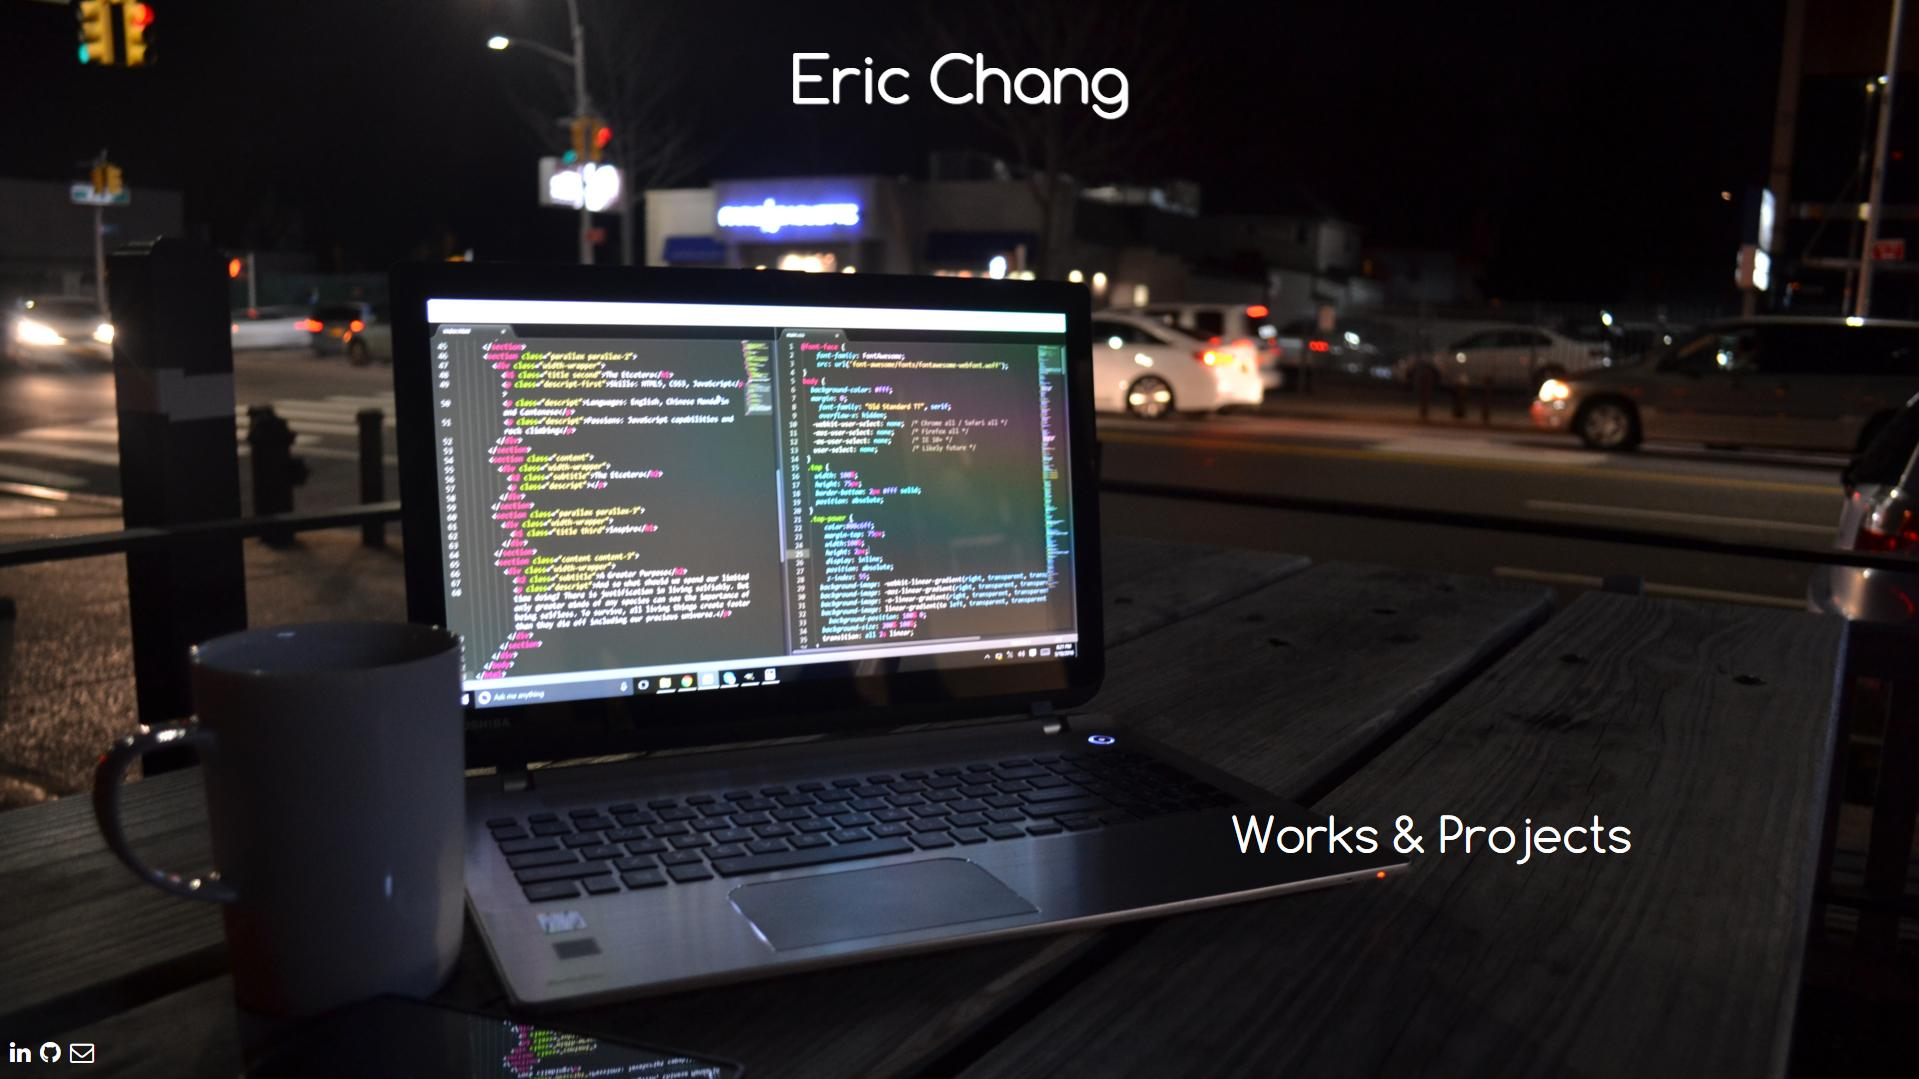
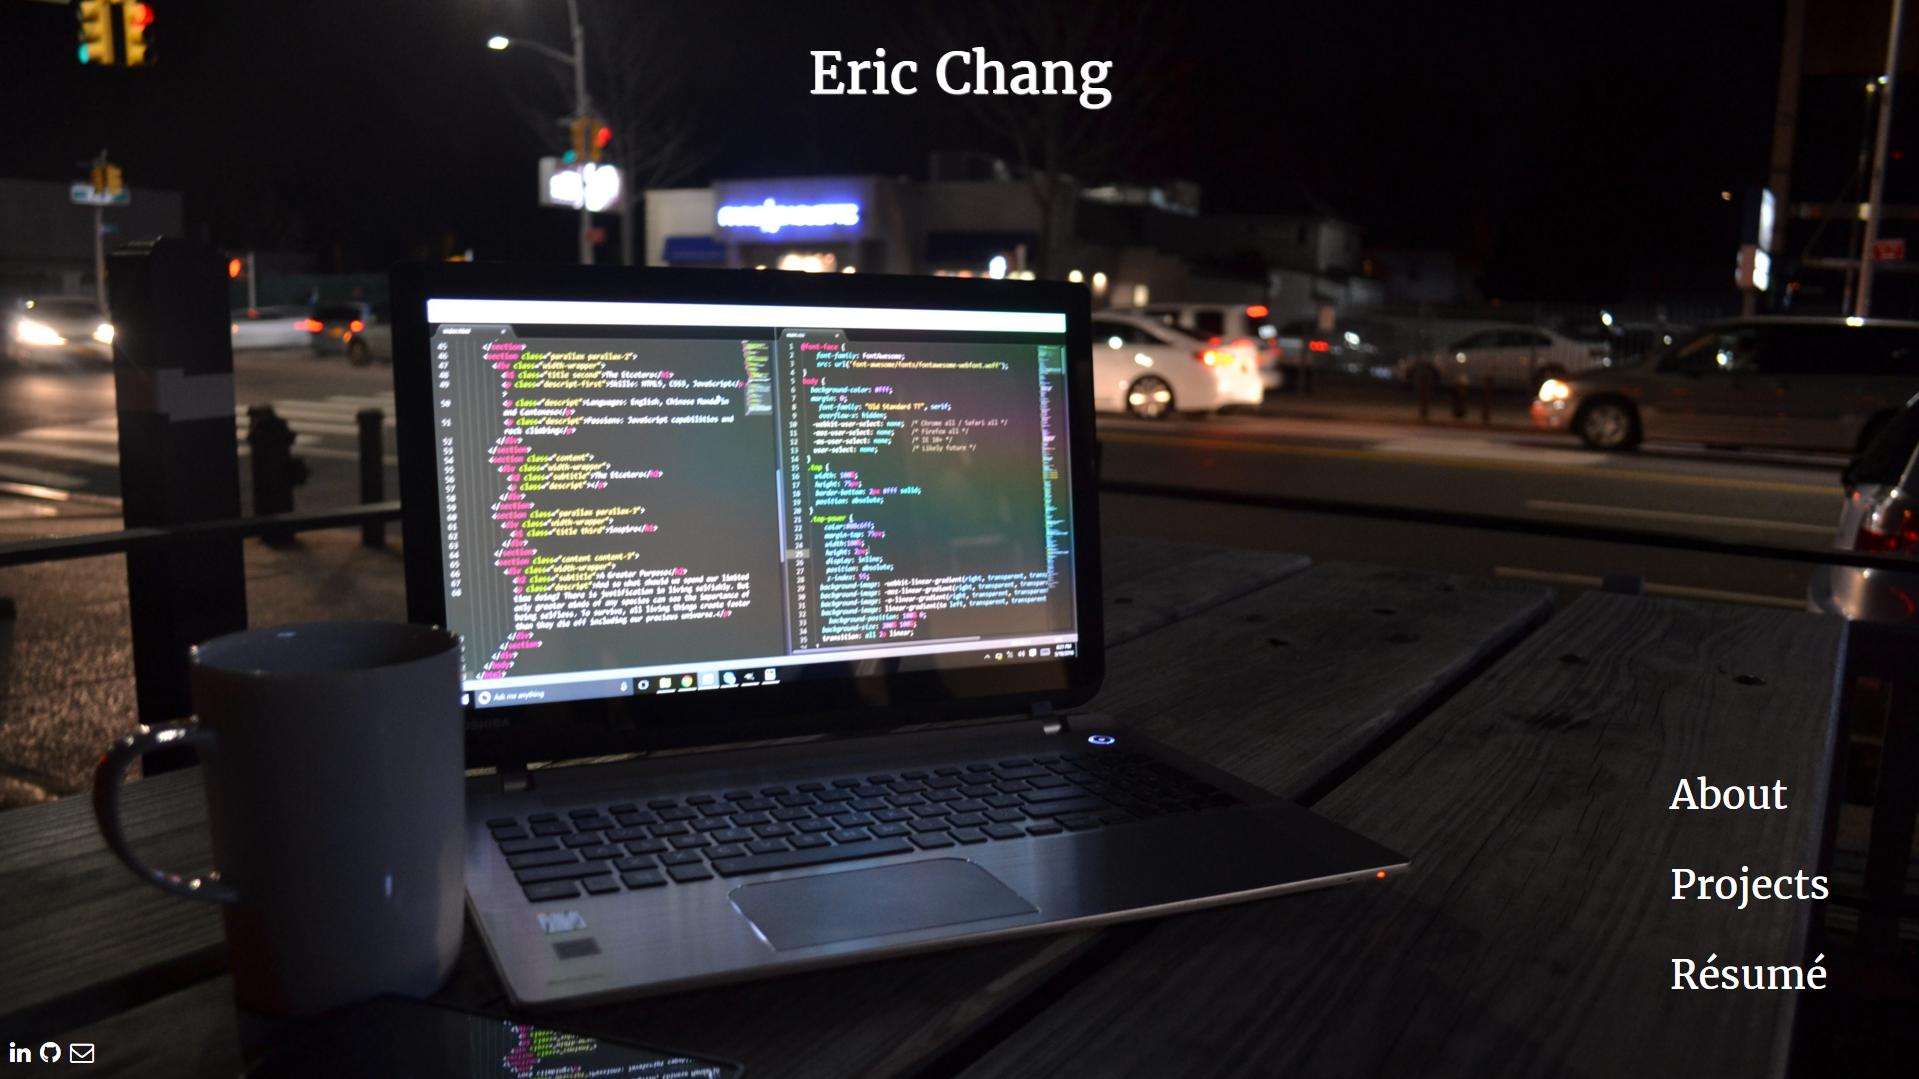
responsive
responsive + css reset

diff --git a/main.css b/main.css
@@ -1,6 +1,32 @@
+@import url(https://fonts.googleapis.com/css?family=Merriweather);
+html, body, div, span, applet, object, iframe,
+h1, h2, h3, h4, h5, h6, p, blockquote, pre,
+a, abbr, acronym, address, big, cite, code,
+del, dfn, em, img, ins, kbd, q, s, samp,
+small, strike, strong, sub, sup, tt, var,
+b, u, i, center,
+dl, dt, dd, ol, ul, li,
+fieldset, form, label, legend,
+table, caption, tbody, tfoot, thead, tr, th, td,
+article, aside, canvas, details, embed, 
+figure, figcaption, footer, header, hgroup, 
+menu, nav, output, ruby, section, summary,
+time, mark, audio, video {
+	margin: 0;
+	padding: 0;
+	border: 0;
+	font-size: 100%;
+	font: inherit;
+	vertical-align: baseline;
+}
 @font-face {
 	font-family: FontAwesome;
 	src: url('font-awesome/fonts/fontawesome-webfont.woff');
+}
+html,
+body {
+	width: 100%;
+	height: 100%;
 }
 body{
 	font-family: 'Merriweather', serif;
@@ -11,9 +37,9 @@ body{
 	background-attachment: fixed;
 	overflow: hidden;
 	-webkit-user-select: none;  /* Chrome all / Safari all */
-  -moz-user-select: none;     /* Firefox all */
-  -ms-user-select: none;      /* IE 10+ */
-  user-select: none;   
+  	-moz-user-select: none;     /* Firefox all */
+ 	-ms-user-select: none;      /* IE 10+ */
+  	user-select: none;   
 }
 a:link, a:visited {
 	text-decoration: none;
@@ -21,10 +47,12 @@ a:link, a:visited {
 }
 ::-webkit-scrollbar {
 	width: 0px;
+	height: 0px;
 	background: transparent;
 }  
 /* header */
 /* header */
+
 .logo {
 	margin-top: 2%;
 	text-align: center;
@@ -38,14 +66,17 @@ a:link, a:visited {
 .main {
 	color: #fff;
 	font-size: 2.5em;
-	width: 300px;
-	height: 300px;
-	position: fixed;
-	right: 10%;
-	bottom: 10%;
+}
+.menu {
+	position: absolute;
+	bottom: 100px;
+	right: 100px;
+	list-style: none;
 }
 .about-btn, .works-btn, .resume-btn {
-	margin-top: 0;
+	margin-right: 100px;
+	margin-top: 50px;
+	display: block;
 }
 .about-btn:hover, .works-btn:hover, .resume-btn:hover {
 	text-shadow: 0 0 10px #00c6ff;
@@ -69,10 +100,9 @@ a:link, a:visited {
 }
 .close {
 	color: #fff;
-	position: absolute;
+	position: fixed;
+	top: 50px;
 	right: 50px;
-	margin-top: 5%;
-	margin-right: 5%;
 	font-size: 2.5em;
 	font-weight: bold;
 	text-shadow: 0 0 5px #00c6ff;
@@ -152,7 +182,7 @@ a:link, a:visited {
 	background: url("images/Eric6.jpg") 0 0 no-repeat;
 	background-size: cover;
 }
-.front .front-title {
+.front-title {
 	font-size: 2em;
 	display: inline-block;
 	background: rgba(33, 33, 33, 0.9);
@@ -195,8 +225,7 @@ a:link, a:visited {
 /* Works Content */
 /* Works Content */
 .works {
-	overflow-x: hidden;
-	overflow-y: scroll;
+	overflow: scroll;
 }
 .grid {
 	position: relative;
@@ -315,14 +344,15 @@ a:link, a:visited {
 /* Resume */
 .page {
 	position: relative;
-  top: 50%;
-  transform: translateY(-50%);
+  	top: 50%;
+ 	transform: translateY(-50%);
 	width: 650px;
 	height: 800px;
 	background-color: #fff;
 	color: #000;
 	font-size: .8em;
 	margin: 0 auto;
+	overflow: scroll;
 }
 .page a:hover {
 	text-decoration: underline;
@@ -454,12 +484,117 @@ a:link, a:visited {
 .email:hover:before {
 	color: #00c6ff;
 }
-@media (max-height: 700px) {
+@media all and (max-height: 750px) {
 	.resume {
-		overflow: scroll;
+		overflow-x: scroll;
+		overflow-y: scroll;
 	}	
 	.page {
 		top: 0;
 		transform: translateY(0);
+	}
+}
+@media all and (max-width: 1280px) {
+	.about-left {
+		padding-left: 10%;
+	}
+	.main {
+		font-size: 1.5em;
+		right: 50px;
+		bottom: 50px;
+	}
+	.about-btn, .works-btn, .resume-btn {
+		margin: 25px 0 0 25px;
+	}
+	.about-right {
+		padding-right: 5%;
+	}
+	.close {
+		font-size: 1.5em;
+	}
+@media all and (max-width: 1024px) {
+	.logo {
+		font-size: 2.5em;
+	}
+	.main {
+		font-size: 1em;
+	}
+	.flip-container, .front, .back {
+		width: 220px;
+		height: 327px;
+	}
+	.front-title {
+		font-size: 1em;
+		left: 50%;
+	}
+	.back-title {
+		font-size: 1em;
+		bottom: 30px;
+	}
+	.acontent {
+		font-size: .8em;
+	}
+}
+@media all and (max-width: 960px) {
+	.portfolio {
+		float: none;
+		margin: 0 auto;
+	}
+}
+@media all and (max-width: 500px) {
+	.logo {
+		margin-top: 4%;
+		font-size: 1.75em;
+	}
+	.close {
+		font-size: 1em;
+		top: 25px;
+		right: 25px;
+	}
+	.menu {
+		right: 75px;
+	}
+	.about-btn, .works-btn, .resume-btn {
+		margin: 10px 0 0 0;
+	}
+	.about {
+		overflow: scroll;	
+	}
+	.about-table {
+		margin-top: 50px;
+	}
+	.about-left {
+		padding: 0 0 0 5%;
+		display: block;
+	}
+	.about-right {
+		width: 200px;
+		float: right;
+		display: block;
+	}
+	.descript {
+		width: 70%;
+		height: 100px;
+		margin-left: 15%;
+		font-size: .8em;
+		text-align: center;
+		display: block;
+	}
+	.portfolio {
+		width: 250px;
+		height: 150px;
+	}
+	.caption {
+		padding: 5px;
+		font-size: .8em;
+	}
+	.languages {
+		right: 5px;
+		bottom: 5px;
+		font-size: .8em;
+	}
+	.hire {
+		margin: 0;
+		font-size: .8em;
 	}
 }

diff --git a/index.html b/index.html
@@ -1,10 +1,10 @@
 <!DOCTYPE html>
 <html>
 	<head>
-		<title>Eric Chang</title>
+		<meta name="viewport" content="width=device-width">
+		<title>Eric Chang | Front-End Developer</title>
 		<script src="https://code.jquery.com/jquery-1.6.2.min.js"></script>
 		<link rel="stylesheet" type="text/css" href="main.css">
-		<link href='https://fonts.googleapis.com/css?family=Merriweather' rel='stylesheet' type='text/css'>
 	</head>
 	<body>
 		<!-- Header -->
@@ -13,9 +13,11 @@
 		</header>
 		<!-- Hero -->
 		<section class="main">
-			<p class="about-btn">About</p>
-			<p class="works-btn">Projects</p>
-			<p class="resume-btn">R&eacute;sum&eacute;</p>
+			<ul class="menu">
+				<li><span class="about-btn">About</span></li>
+				<li><span class="works-btn">Projects</span></li>
+				<li><span class="resume-btn">R&eacute;sum&eacute;</span></li>
+			</ul>
 		</section>
 		<!-- About -->
 		<section class="about">
